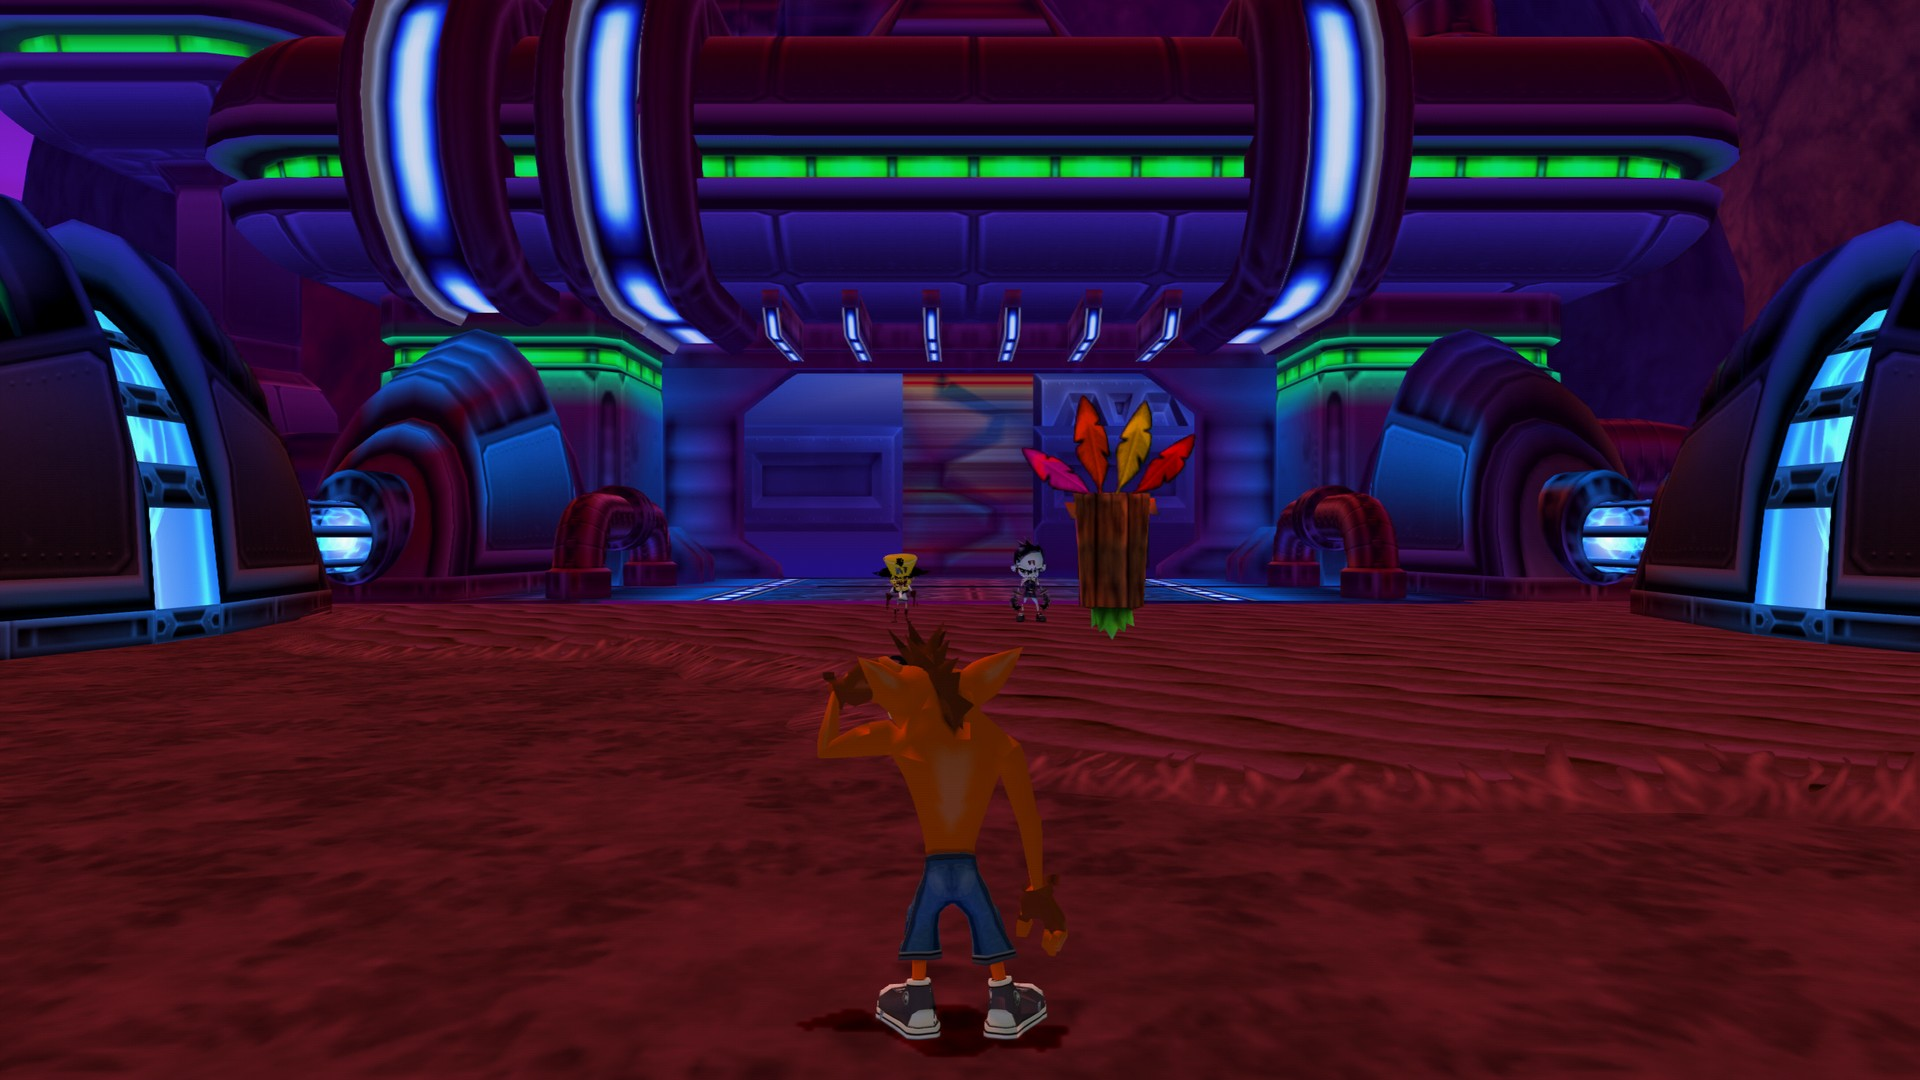
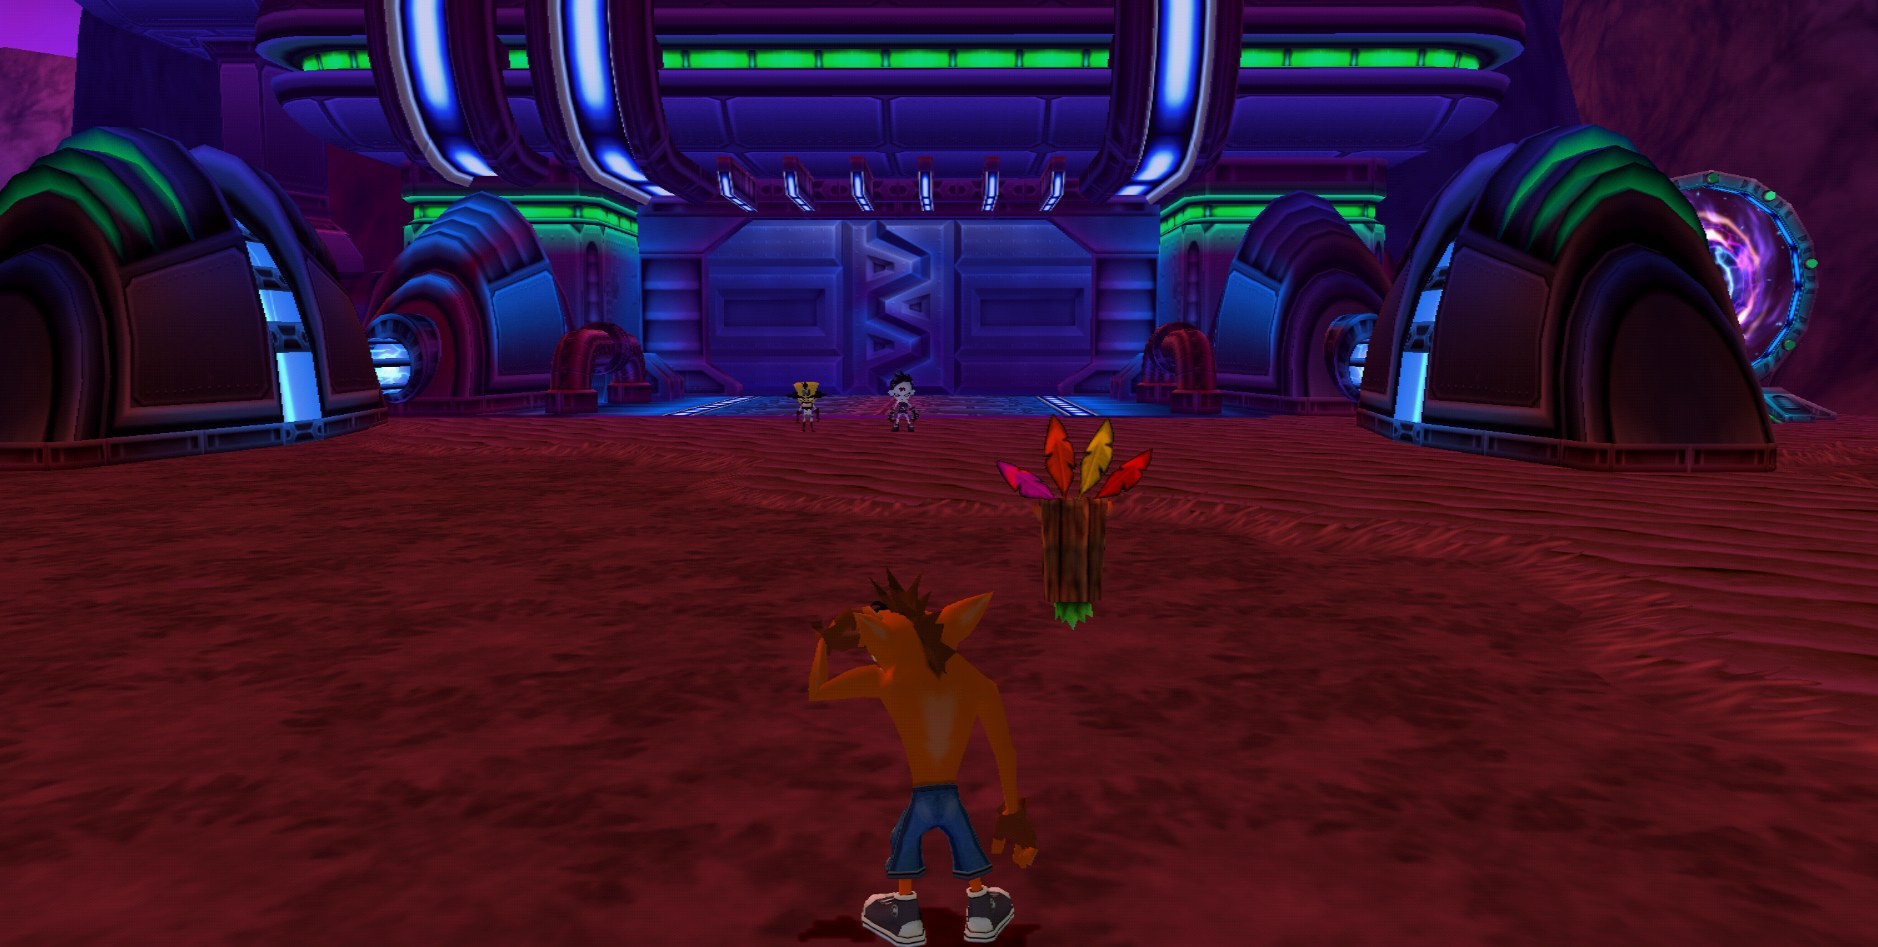
The README's dungeon picture taken on 1.2.0: the old one still showed the door streaked, as before Ant Agony's fix
docs/screenshots/dungeon.jpg was taken on 1.0.x, before cb982e6, and its big door had the horizontal streaks that 1.2.0 fixed
(textures read from an old buffer of the first boss's area). NormanTheFox pointed it out on #32 and posted the same place on
1.2.0, drawn right: that picture replaces it, credited under it.

diff --git a/README.md b/README.md
@@ -388,6 +388,8 @@ and [docs/DEVELOPMENT.md](docs/DEVELOPMENT.md). HAB3X's native layer: [native/NA
 
 ![dungeon](docs/screenshots/dungeon.jpg)
 
+*On 1.2.0. Screenshot by [NormanTheFox](https://github.com/NormanTheFox), thank you!*
+
 ## Credits
 
 **Upstream projects (most of the work):**
